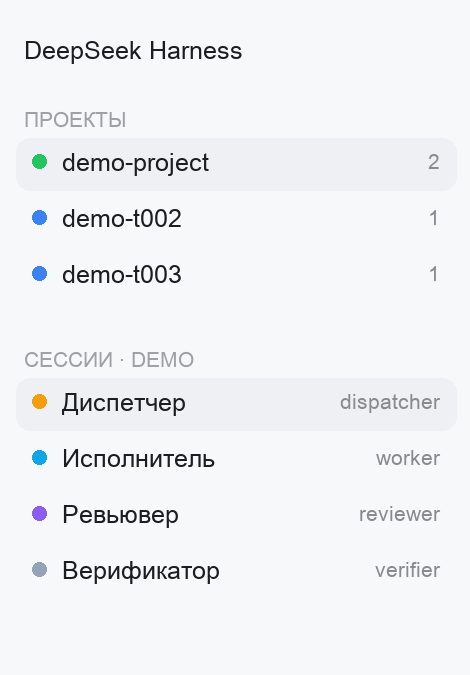
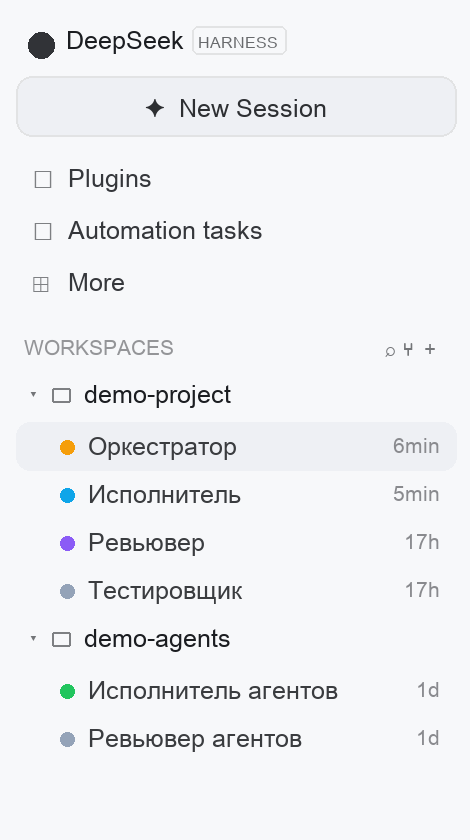
docs: сайдбар в README — дерево воркспейсов как в приложении + реальный скриншот

diff --git a/dsh-kanban/docs/board-mockup-panel-dark.html b/dsh-kanban/docs/board-mockup-panel-dark.html
@@ -12,12 +12,24 @@
     -webkit-font-smoothing: antialiased;
   }
   .app { display: flex; height: 100vh; }
-  .left { width: 236px; flex: 0 0 auto; background: #1c1e23; border-right: 1px solid rgba(255,255,255,.09); padding: 10px 8px; }
-  .brand { font-weight: 600; font-size: 12px; letter-spacing: .02em; padding: 6px 8px 10px; opacity: .9; }
-  .ws { font-size: 11px; text-transform: uppercase; letter-spacing: .06em; opacity: .45; padding: 10px 8px 4px; }
-  .row { display: flex; align-items: center; gap: 8px; padding: 6px 8px; border-radius: 7px; font-size: 12.5px; }
-  .row.active { background: #212429; }
-  .row .meta { margin-left: auto; font-size: 10.5px; opacity: .5; }
+  .left { width: 236px; flex: 0 0 auto; background: #1c1e23; border-right: 1px solid rgba(255,255,255,.09); padding: 8px 8px; display: flex; flex-direction: column; }
+  .brandRow { display: flex; align-items: center; gap: 6px; padding: 6px 8px 10px; }
+  .logo { width: 13px; height: 13px; border-radius: 50%; background: #e6e8eb; opacity: .9; }
+  .brandName { font-weight: 600; font-size: 12.5px; letter-spacing: .01em; }
+  .brandTag { font-size: 8px; letter-spacing: .09em; border: 1px solid rgba(255,255,255,.09); border-radius: 3px; padding: 1px 4px; opacity: .65; }
+  .newSession { margin: 0 4px 8px; padding: 8px 10px; border: 1px solid rgba(255,255,255,.09); border-radius: 8px; background: #212429; font-size: 12px; text-align: center; opacity: .95; }
+  .menuItem { display: flex; align-items: center; gap: 8px; padding: 6px 8px; font-size: 12px; opacity: .88; }
+  .miIcon { width: 14px; font-size: 11px; opacity: .55; text-align: center; }
+  .wsHead { display: flex; align-items: center; gap: 6px; padding: 12px 8px 4px; font-size: 11px; letter-spacing: .06em; text-transform: uppercase; opacity: .45; }
+  .wsIcons { margin-left: auto; font-size: 10px; opacity: .8; letter-spacing: 3px; }
+  .treeWs { display: flex; align-items: center; gap: 6px; padding: 5px 8px; font-size: 12px; opacity: .95; }
+  .chev { width: 10px; font-size: 9px; opacity: .6; }
+  .folder { font-size: 11px; opacity: .6; }
+  .treeSession { display: flex; align-items: center; gap: 8px; padding: 5px 8px 5px 30px; font-size: 12px; border-radius: 7px; opacity: .85; }
+  .treeSession.active { background: #212429; }
+  .tnDot { width: 7px; height: 7px; border-radius: 50%; flex: 0 0 auto; }
+  .tname { white-space: nowrap; overflow: hidden; text-overflow: ellipsis; }
+  .time { margin-left: auto; font-size: 10px; opacity: .5; }
   .dot { width: 7px; height: 7px; border-radius: 50%; flex: 0 0 auto; }
   .conv { flex: 1 1 auto; min-width: 0; display: flex; flex-direction: column; border-right: 1px solid rgba(255,255,255,.09); }
   .convHead { display: flex; align-items: center; gap: 10px; padding: 10px 14px; border-bottom: 1px solid rgba(255,255,255,.09); font-size: 12.5px; }
@@ -42,16 +54,20 @@
 
   <div class="app">
     <aside class="left">
-      <div class="brand">DeepSeek Harness</div>
-      <div class="ws">Проекты</div>
-      <div class="row active"><span class="dot" style="background:#22c55e"></span>demo-project<span class="meta">2</span></div>
-      <div class="row"><span class="dot" style="background:#3b82f6"></span>demo-t002<span class="meta">1</span></div>
-      <div class="row"><span class="dot" style="background:#3b82f6"></span>demo-t003<span class="meta">1</span></div>
-      <div class="ws">Сессии · demo-project</div>
-      <div class="row active"><span class="dot" style="background:#f59e0b"></span>Диспетчер<span class="meta">dispatcher</span></div>
-      <div class="row"><span class="dot" style="background:#0ea5e9"></span>Исполнитель<span class="meta">worker</span></div>
-      <div class="row"><span class="dot" style="background:#8b5cf6"></span>Ревьювер<span class="meta">reviewer</span></div>
-      <div class="row"><span class="dot" style="background:#94a3b8"></span>Верификатор<span class="meta">verifier</span></div>
+      <div class="brandRow"><span class="logo"></span><span class="brandName">DeepSeek</span><span class="brandTag">HARNESS</span></div>
+      <div class="newSession">✦&nbsp; New Session</div>
+      <div class="menuItem"><span class="miIcon">⧉</span>Plugins</div>
+      <div class="menuItem"><span class="miIcon">◷</span>Automation tasks</div>
+      <div class="menuItem"><span class="miIcon">⊞</span>More</div>
+      <div class="wsHead"><span>Workspaces</span><span class="wsIcons">⌕ ⑂ ＋</span></div>
+      <div class="treeWs"><span class="chev">▾</span><span class="folder">▸</span>demo-project</div>
+      <div class="treeSession active"><span class="tnDot" style="background:#f59e0b"></span><span class="tname">Оркестратор</span><span class="time">6min</span></div>
+      <div class="treeSession"><span class="tnDot" style="background:#0ea5e9"></span><span class="tname">Исполнитель</span><span class="time">5min</span></div>
+      <div class="treeSession"><span class="tnDot" style="background:#8b5cf6"></span><span class="tname">Ревьювер</span><span class="time">17h</span></div>
+      <div class="treeSession"><span class="tnDot" style="background:#94a3b8"></span><span class="tname">Тестировщик</span><span class="time">17h</span></div>
+      <div class="treeWs"><span class="chev">▾</span><span class="folder">▸</span>demo-agents</div>
+      <div class="treeSession"><span class="tnDot" style="background:#22c55e"></span><span class="tname">Исполнитель агентов</span><span class="time">1d</span></div>
+      <div class="treeSession"><span class="tnDot" style="background:#94a3b8"></span><span class="tname">Ревьювер агентов</span><span class="time">1d</span></div>
     </aside>
     <main class="conv">
       <div class="convHead">

diff --git a/dsh-kanban/docs/board-mockup-panel-light.html b/dsh-kanban/docs/board-mockup-panel-light.html
@@ -12,12 +12,24 @@
     -webkit-font-smoothing: antialiased;
   }
   .app { display: flex; height: 100vh; }
-  .left { width: 236px; flex: 0 0 auto; background: #f7f8fa; border-right: 1px solid rgba(15,20,30,.12); padding: 10px 8px; }
-  .brand { font-weight: 600; font-size: 12px; letter-spacing: .02em; padding: 6px 8px 10px; opacity: .9; }
-  .ws { font-size: 11px; text-transform: uppercase; letter-spacing: .06em; opacity: .45; padding: 10px 8px 4px; }
-  .row { display: flex; align-items: center; gap: 8px; padding: 6px 8px; border-radius: 7px; font-size: 12.5px; }
-  .row.active { background: #eef0f4; }
-  .row .meta { margin-left: auto; font-size: 10.5px; opacity: .5; }
+  .left { width: 236px; flex: 0 0 auto; background: #f7f8fa; border-right: 1px solid rgba(15,20,30,.12); padding: 8px 8px; display: flex; flex-direction: column; }
+  .brandRow { display: flex; align-items: center; gap: 6px; padding: 6px 8px 10px; }
+  .logo { width: 13px; height: 13px; border-radius: 50%; background: #1b1d21; opacity: .9; }
+  .brandName { font-weight: 600; font-size: 12.5px; letter-spacing: .01em; }
+  .brandTag { font-size: 8px; letter-spacing: .09em; border: 1px solid rgba(15,20,30,.12); border-radius: 3px; padding: 1px 4px; opacity: .65; }
+  .newSession { margin: 0 4px 8px; padding: 8px 10px; border: 1px solid rgba(15,20,30,.12); border-radius: 8px; background: #eef0f4; font-size: 12px; text-align: center; opacity: .95; }
+  .menuItem { display: flex; align-items: center; gap: 8px; padding: 6px 8px; font-size: 12px; opacity: .88; }
+  .miIcon { width: 14px; font-size: 11px; opacity: .55; text-align: center; }
+  .wsHead { display: flex; align-items: center; gap: 6px; padding: 12px 8px 4px; font-size: 11px; letter-spacing: .06em; text-transform: uppercase; opacity: .45; }
+  .wsIcons { margin-left: auto; font-size: 10px; opacity: .8; letter-spacing: 3px; }
+  .treeWs { display: flex; align-items: center; gap: 6px; padding: 5px 8px; font-size: 12px; opacity: .95; }
+  .chev { width: 10px; font-size: 9px; opacity: .6; }
+  .folder { font-size: 11px; opacity: .6; }
+  .treeSession { display: flex; align-items: center; gap: 8px; padding: 5px 8px 5px 30px; font-size: 12px; border-radius: 7px; opacity: .85; }
+  .treeSession.active { background: #eef0f4; }
+  .tnDot { width: 7px; height: 7px; border-radius: 50%; flex: 0 0 auto; }
+  .tname { white-space: nowrap; overflow: hidden; text-overflow: ellipsis; }
+  .time { margin-left: auto; font-size: 10px; opacity: .5; }
   .dot { width: 7px; height: 7px; border-radius: 50%; flex: 0 0 auto; }
   .conv { flex: 1 1 auto; min-width: 0; display: flex; flex-direction: column; border-right: 1px solid rgba(15,20,30,.12); }
   .convHead { display: flex; align-items: center; gap: 10px; padding: 10px 14px; border-bottom: 1px solid rgba(15,20,30,.12); font-size: 12.5px; }
@@ -42,16 +54,20 @@
 
   <div class="app">
     <aside class="left">
-      <div class="brand">DeepSeek Harness</div>
-      <div class="ws">Проекты</div>
-      <div class="row active"><span class="dot" style="background:#22c55e"></span>demo-project<span class="meta">2</span></div>
-      <div class="row"><span class="dot" style="background:#3b82f6"></span>demo-t002<span class="meta">1</span></div>
-      <div class="row"><span class="dot" style="background:#3b82f6"></span>demo-t003<span class="meta">1</span></div>
-      <div class="ws">Сессии · demo-project</div>
-      <div class="row active"><span class="dot" style="background:#f59e0b"></span>Диспетчер<span class="meta">dispatcher</span></div>
-      <div class="row"><span class="dot" style="background:#0ea5e9"></span>Исполнитель<span class="meta">worker</span></div>
-      <div class="row"><span class="dot" style="background:#8b5cf6"></span>Ревьювер<span class="meta">reviewer</span></div>
-      <div class="row"><span class="dot" style="background:#94a3b8"></span>Верификатор<span class="meta">verifier</span></div>
+      <div class="brandRow"><span class="logo"></span><span class="brandName">DeepSeek</span><span class="brandTag">HARNESS</span></div>
+      <div class="newSession">✦&nbsp; New Session</div>
+      <div class="menuItem"><span class="miIcon">⧉</span>Plugins</div>
+      <div class="menuItem"><span class="miIcon">◷</span>Automation tasks</div>
+      <div class="menuItem"><span class="miIcon">⊞</span>More</div>
+      <div class="wsHead"><span>Workspaces</span><span class="wsIcons">⌕ ⑂ ＋</span></div>
+      <div class="treeWs"><span class="chev">▾</span><span class="folder">▸</span>demo-project</div>
+      <div class="treeSession active"><span class="tnDot" style="background:#f59e0b"></span><span class="tname">Оркестратор</span><span class="time">6min</span></div>
+      <div class="treeSession"><span class="tnDot" style="background:#0ea5e9"></span><span class="tname">Исполнитель</span><span class="time">5min</span></div>
+      <div class="treeSession"><span class="tnDot" style="background:#8b5cf6"></span><span class="tname">Ревьювер</span><span class="time">17h</span></div>
+      <div class="treeSession"><span class="tnDot" style="background:#94a3b8"></span><span class="tname">Тестировщик</span><span class="time">17h</span></div>
+      <div class="treeWs"><span class="chev">▾</span><span class="folder">▸</span>demo-agents</div>
+      <div class="treeSession"><span class="tnDot" style="background:#22c55e"></span><span class="tname">Исполнитель агентов</span><span class="time">1d</span></div>
+      <div class="treeSession"><span class="tnDot" style="background:#94a3b8"></span><span class="tname">Ревьювер агентов</span><span class="time">1d</span></div>
     </aside>
     <main class="conv">
       <div class="convHead">

diff --git a/dsh-kanban/docs/board-mockup-full-dark.html b/dsh-kanban/docs/board-mockup-full-dark.html
@@ -12,12 +12,24 @@
     -webkit-font-smoothing: antialiased;
   }
   .app { display: flex; height: 100vh; }
-  .left { width: 236px; flex: 0 0 auto; background: #1c1e23; border-right: 1px solid rgba(255,255,255,.09); padding: 10px 8px; }
-  .brand { font-weight: 600; font-size: 12px; letter-spacing: .02em; padding: 6px 8px 10px; opacity: .9; }
-  .ws { font-size: 11px; text-transform: uppercase; letter-spacing: .06em; opacity: .45; padding: 10px 8px 4px; }
-  .row { display: flex; align-items: center; gap: 8px; padding: 6px 8px; border-radius: 7px; font-size: 12.5px; }
-  .row.active { background: #212429; }
-  .row .meta { margin-left: auto; font-size: 10.5px; opacity: .5; }
+  .left { width: 236px; flex: 0 0 auto; background: #1c1e23; border-right: 1px solid rgba(255,255,255,.09); padding: 8px 8px; display: flex; flex-direction: column; }
+  .brandRow { display: flex; align-items: center; gap: 6px; padding: 6px 8px 10px; }
+  .logo { width: 13px; height: 13px; border-radius: 50%; background: #e6e8eb; opacity: .9; }
+  .brandName { font-weight: 600; font-size: 12.5px; letter-spacing: .01em; }
+  .brandTag { font-size: 8px; letter-spacing: .09em; border: 1px solid rgba(255,255,255,.09); border-radius: 3px; padding: 1px 4px; opacity: .65; }
+  .newSession { margin: 0 4px 8px; padding: 8px 10px; border: 1px solid rgba(255,255,255,.09); border-radius: 8px; background: #212429; font-size: 12px; text-align: center; opacity: .95; }
+  .menuItem { display: flex; align-items: center; gap: 8px; padding: 6px 8px; font-size: 12px; opacity: .88; }
+  .miIcon { width: 14px; font-size: 11px; opacity: .55; text-align: center; }
+  .wsHead { display: flex; align-items: center; gap: 6px; padding: 12px 8px 4px; font-size: 11px; letter-spacing: .06em; text-transform: uppercase; opacity: .45; }
+  .wsIcons { margin-left: auto; font-size: 10px; opacity: .8; letter-spacing: 3px; }
+  .treeWs { display: flex; align-items: center; gap: 6px; padding: 5px 8px; font-size: 12px; opacity: .95; }
+  .chev { width: 10px; font-size: 9px; opacity: .6; }
+  .folder { font-size: 11px; opacity: .6; }
+  .treeSession { display: flex; align-items: center; gap: 8px; padding: 5px 8px 5px 30px; font-size: 12px; border-radius: 7px; opacity: .85; }
+  .treeSession.active { background: #212429; }
+  .tnDot { width: 7px; height: 7px; border-radius: 50%; flex: 0 0 auto; }
+  .tname { white-space: nowrap; overflow: hidden; text-overflow: ellipsis; }
+  .time { margin-left: auto; font-size: 10px; opacity: .5; }
   .dot { width: 7px; height: 7px; border-radius: 50%; flex: 0 0 auto; }
   .conv { flex: 1 1 auto; min-width: 0; display: flex; flex-direction: column; border-right: 1px solid rgba(255,255,255,.09); }
   .convHead { display: flex; align-items: center; gap: 10px; padding: 10px 14px; border-bottom: 1px solid rgba(255,255,255,.09); font-size: 12.5px; }

diff --git a/dsh-kanban/docs/board-mockup-full-light.html b/dsh-kanban/docs/board-mockup-full-light.html
@@ -12,12 +12,24 @@
     -webkit-font-smoothing: antialiased;
   }
   .app { display: flex; height: 100vh; }
-  .left { width: 236px; flex: 0 0 auto; background: #f7f8fa; border-right: 1px solid rgba(15,20,30,.12); padding: 10px 8px; }
-  .brand { font-weight: 600; font-size: 12px; letter-spacing: .02em; padding: 6px 8px 10px; opacity: .9; }
-  .ws { font-size: 11px; text-transform: uppercase; letter-spacing: .06em; opacity: .45; padding: 10px 8px 4px; }
-  .row { display: flex; align-items: center; gap: 8px; padding: 6px 8px; border-radius: 7px; font-size: 12.5px; }
-  .row.active { background: #eef0f4; }
-  .row .meta { margin-left: auto; font-size: 10.5px; opacity: .5; }
+  .left { width: 236px; flex: 0 0 auto; background: #f7f8fa; border-right: 1px solid rgba(15,20,30,.12); padding: 8px 8px; display: flex; flex-direction: column; }
+  .brandRow { display: flex; align-items: center; gap: 6px; padding: 6px 8px 10px; }
+  .logo { width: 13px; height: 13px; border-radius: 50%; background: #1b1d21; opacity: .9; }
+  .brandName { font-weight: 600; font-size: 12.5px; letter-spacing: .01em; }
+  .brandTag { font-size: 8px; letter-spacing: .09em; border: 1px solid rgba(15,20,30,.12); border-radius: 3px; padding: 1px 4px; opacity: .65; }
+  .newSession { margin: 0 4px 8px; padding: 8px 10px; border: 1px solid rgba(15,20,30,.12); border-radius: 8px; background: #eef0f4; font-size: 12px; text-align: center; opacity: .95; }
+  .menuItem { display: flex; align-items: center; gap: 8px; padding: 6px 8px; font-size: 12px; opacity: .88; }
+  .miIcon { width: 14px; font-size: 11px; opacity: .55; text-align: center; }
+  .wsHead { display: flex; align-items: center; gap: 6px; padding: 12px 8px 4px; font-size: 11px; letter-spacing: .06em; text-transform: uppercase; opacity: .45; }
+  .wsIcons { margin-left: auto; font-size: 10px; opacity: .8; letter-spacing: 3px; }
+  .treeWs { display: flex; align-items: center; gap: 6px; padding: 5px 8px; font-size: 12px; opacity: .95; }
+  .chev { width: 10px; font-size: 9px; opacity: .6; }
+  .folder { font-size: 11px; opacity: .6; }
+  .treeSession { display: flex; align-items: center; gap: 8px; padding: 5px 8px 5px 30px; font-size: 12px; border-radius: 7px; opacity: .85; }
+  .treeSession.active { background: #eef0f4; }
+  .tnDot { width: 7px; height: 7px; border-radius: 50%; flex: 0 0 auto; }
+  .tname { white-space: nowrap; overflow: hidden; text-overflow: ellipsis; }
+  .time { margin-left: auto; font-size: 10px; opacity: .5; }
   .dot { width: 7px; height: 7px; border-radius: 50%; flex: 0 0 auto; }
   .conv { flex: 1 1 auto; min-width: 0; display: flex; flex-direction: column; border-right: 1px solid rgba(15,20,30,.12); }
   .convHead { display: flex; align-items: center; gap: 10px; padding: 10px 14px; border-bottom: 1px solid rgba(15,20,30,.12); font-size: 12.5px; }

diff --git a/dsh-kanban/docs/render-mockup.py b/dsh-kanban/docs/render-mockup.py
@@ -513,32 +513,57 @@ def build_frame(board, board_w, board_h, view, theme):
     # левый сайдбар
     canvas.rect(0, 0, left_w, height, fill=panel)
     canvas.line(left_w, 0, left_w, height, line, 1)
-    canvas.text(12, 16, "DeepSeek Harness", f12, text)
-    canvas.text(12, 52, "ПРОЕКТЫ", f10, composite(text, 0.4, panel))
-    rows = [("demo-project", "#22c55e", "2", True), ("demo-t002", "#3b82f6", "1", False), ("demo-t003", "#3b82f6", "1", False)]
-    y = 72
-    for name, color, badge, active in rows:
-        if active:
-            canvas.rect(8, y - 3, left_w - 16, 26, radius=7, fill=panel2)
-        canvas.rect(16, y + 5, 7, 7, radius=4, fill=hex_rgb(color))
-        canvas.text(31, y, name, f12, text)
-        canvas.text(left_w - 16, y + 1, badge, f10, composite(text, 0.5, panel), anchor="ra")
-        y += 28
-    canvas.text(12, y + 16, "СЕССИИ · DEMO", f10, composite(text, 0.4, panel))
-    y += 36
-    for name, color, badge, active in [
-        ("Диспетчер", "#f59e0b", "dispatcher", True),
-        ("Исполнитель", "#0ea5e9", "worker", False),
-        ("Ревьювер", "#8b5cf6", "reviewer", False),
-        ("Верификатор", "#94a3b8", "verifier", False),
-    ]:
-        if active:
-            canvas.rect(8, y - 3, left_w - 16, 26, radius=7, fill=panel2)
-        canvas.rect(16, y + 5, 7, 7, radius=4, fill=hex_rgb(color))
-        canvas.text(31, y, name, f12, text)
-        if badge:
-            canvas.text(left_w - 16, y + 1, badge, f10, composite(text, 0.5, panel), anchor="ra")
-        y += 28
+    # логотип и название
+    canvas.rect(14, 16, 13, 13, radius=7, fill=composite(text, 0.9, panel))
+    canvas.text(33, 11, "DeepSeek", f12, text)
+    canvas.rect(96, 13, 47, 14, radius=3, outline=line, line=1)
+    canvas.text(119, 15, "HARNESS", font(8), composite(text, 0.65, panel), anchor="ma")
+
+    # New Session
+    canvas.rect(8, 38, left_w - 16, 30, radius=8, fill=panel2, outline=line, line=1)
+    canvas.text(left_w / 2, 45, "✦  New Session", f12, composite(text, 0.92, panel), anchor="ma")
+
+    # меню
+    y = 80
+    for icon, name in [("⧉", "Plugins"), ("◷", "Automation tasks"), ("⊞", "More")]:
+        canvas.text(16, y + 2, icon, font(11), composite(text, 0.55, panel))
+        canvas.text(34, y, name, f12, composite(text, 0.88, panel))
+        y += 26
+
+    # Workspaces + дерево
+    y += 8
+    canvas.text(12, y, "WORKSPACES", f10, composite(text, 0.45, panel))
+    canvas.text(left_w - 16, y + 1, "⌕ ⑂ ＋", font(10), composite(text, 0.6, panel), anchor="ra")
+    y += 22
+
+    def tree_workspace(name):
+        nonlocal_holder = None
+        return name
+
+    rows = [
+        ("ws", "demo-project"),
+        ("s", "#f59e0b", "Оркестратор", "6min", True),
+        ("s", "#0ea5e9", "Исполнитель", "5min", False),
+        ("s", "#8b5cf6", "Ревьювер", "17h", False),
+        ("s", "#94a3b8", "Тестировщик", "17h", False),
+        ("ws", "demo-agents"),
+        ("s", "#22c55e", "Исполнитель агентов", "1d", False),
+        ("s", "#94a3b8", "Ревьювер агентов", "1d", False),
+    ]
+    for row in rows:
+        if row[0] == "ws":
+            canvas.text(14, y + 2, "▾", font(9), composite(text, 0.6, panel))
+            canvas.rect(26, y + 6, 9, 7, radius=1, outline=composite(text, 0.55, panel), line=1)
+            canvas.text(42, y, row[1], f12, text)
+            y += 26
+        else:
+            _, color, name, rel, active = row
+            if active:
+                canvas.rect(8, y - 3, left_w - 16, 24, radius=7, fill=panel2)
+            canvas.rect(30, y + 6, 7, 7, radius=4, fill=hex_rgb(color))
+            canvas.text(44, y, name, f12, composite(text, 0.86, panel))
+            canvas.text(left_w - 16, y + 1, rel, f10, composite(text, 0.5, panel), anchor="ra")
+            y += 24
 
     # разговор
     cx = left_w

diff --git a/README.ru.md b/README.ru.md
@@ -6,9 +6,9 @@
 
 ![Доска в правом сайдбаре: воркспейсы, сессии ролей, чат и вкладка «Канбан»](dsh-kanban/docs/board-mockup-panel-dark.png)
 
-*Один воркспейс, четыре сессии ролей и доска в правом сайдбаре. Скриншоты рисует
-собственный генератор макетов плагина — из его настоящей таблицы стилей, поэтому
-раскладка и цвета такие же, как в приложении.*
+*Один воркспейс, четыре сессии ролей и доска в правом сайдбаре. Большинство скриншотов
+рисует собственный генератор макетов плагина — из его настоящей таблицы стилей, поэтому
+раскладка и цвета как в приложении; кадры с пометкой «настоящий скриншот» сняты с живого UI.*
 
 ## Зачем этот плагин
 
@@ -75,9 +75,17 @@ flowchart LR
 | Ревьювер | `reviewer` | читает диф: принимает в тестирование или возвращает карточку с замечаниями |
 | Тестировщик | `verifier` | прогоняет тесты и ручной сценарий: принимает в ready или возвращает карточку с воспроизведением |
 
-![Воркспейс и сессии ролей с их пресетами](dsh-kanban/docs/readme-sessions-dark.png)
+![Дерево воркспейсов с сессиями ролей](dsh-kanban/docs/readme-sessions-dark.png)
 
 *Светлая тема: [воркспейс и сессии](dsh-kanban/docs/readme-sessions-light.png).*
+
+Сайдбар умеет группировать воркспейсы **деревом** (как на скриншоте выше): сессии лежат внутри
+своего воркспейса, а воркспейсы могут быть вложены как подпроекты. Пресеты в строках сессий не
+показываются — пресет виден в шапке чата и в таблице ролей выше.
+
+![Реальный сайдбар: дерево воркспейсов и сессии](dsh-kanban/docs/real-sidebar.png)
+
+*Настоящий скриншот сайдбара (не макет): дерево Workspaces с сессиями разных ролей.*
 
 Путь одной задачи:
 

diff --git a/README.md b/README.md
@@ -6,9 +6,9 @@
 
 ![The board in the right sidebar: workspaces, role sessions, chat and the Kanban tab](dsh-kanban/docs/board-mockup-panel-dark.png)
 
-*One workspace, four role sessions and the board in the right sidebar. The screenshots are
-rendered by the plugin's own mockup generator from its real style table, so the layout and
-colors are the ones you get in the app.*
+*One workspace, four role sessions and the board in the right sidebar. Most screenshots are
+rendered by the plugin's own mockup generator from its real style table (so layout and colors
+match the app); images marked "real screenshot" are actual UI captures.*
 
 ## Why this plugin exists
 
@@ -75,9 +75,17 @@ inside it:
 | Reviewer | `reviewer` | reads the diff: approves to testing, or returns the card with comments |
 | Tester | `verifier` | runs tests and the manual scenario: approves to ready, or returns the card with a reproduction |
 
-![Workspace and role sessions with their presets](dsh-kanban/docs/readme-sessions-dark.png)
+![Workspace tree with role sessions](dsh-kanban/docs/readme-sessions-dark.png)
 
 *Light theme: [workspace and sessions](dsh-kanban/docs/readme-sessions-light.png).*
+
+The sidebar can group workspaces as a **tree** (the layout in the screenshot above): sessions live
+under their workspace, and workspaces may be nested as sub-projects. Role presets are not shown in
+the sidebar rows — the preset is visible in the session header and is listed in the table above.
+
+![Real sidebar: workspace tree and sessions](dsh-kanban/docs/real-sidebar.png)
+
+*A real screenshot of the sidebar (no mockup): Workspaces tree with sessions of different roles.*
 
 The flow of one task:
 

diff --git a/KANBAN.md b/KANBAN.md
@@ -74,7 +74,8 @@
 | `dsh-kanban/docs/build-mockup.mjs`, `dsh-kanban/docs/dump-styles.mjs`, `dsh-kanban/docs/render-mockup.py` | Генераторы макета: HTML и PNG из стилей плагина |
 
 | `README.md`, `README.ru.md` | Пользовательская документация: зачем плагин, пример с одним воркспейсом и четырьмя сессиями ролей, установка и создание сессий (EN / RU) |
-| `dsh-kanban/docs/readme-sessions-*.png` | Кадры сайдбара с воркспейсом и сессиями ролей для README (нарезаны из макета, тёмная и светлая тема) |
+| `dsh-kanban/docs/readme-sessions-*.png` | Кадры сайдбара с деревом воркспейсов и сессиями ролей для README (нарезаны из макета, тёмная и светлая тема) |
+| `dsh-kanban/docs/real-sidebar.png` | Реальный скриншот сайдбара приложения (дерево Workspaces), вставлен в README |
 > Весь набор переносим: скопируйте `.kanban/`, `AGENTS.md`, `.agents/skills/kanban/`,
 > `bin/`, `dsh-kanban/` в любой проект.
 
